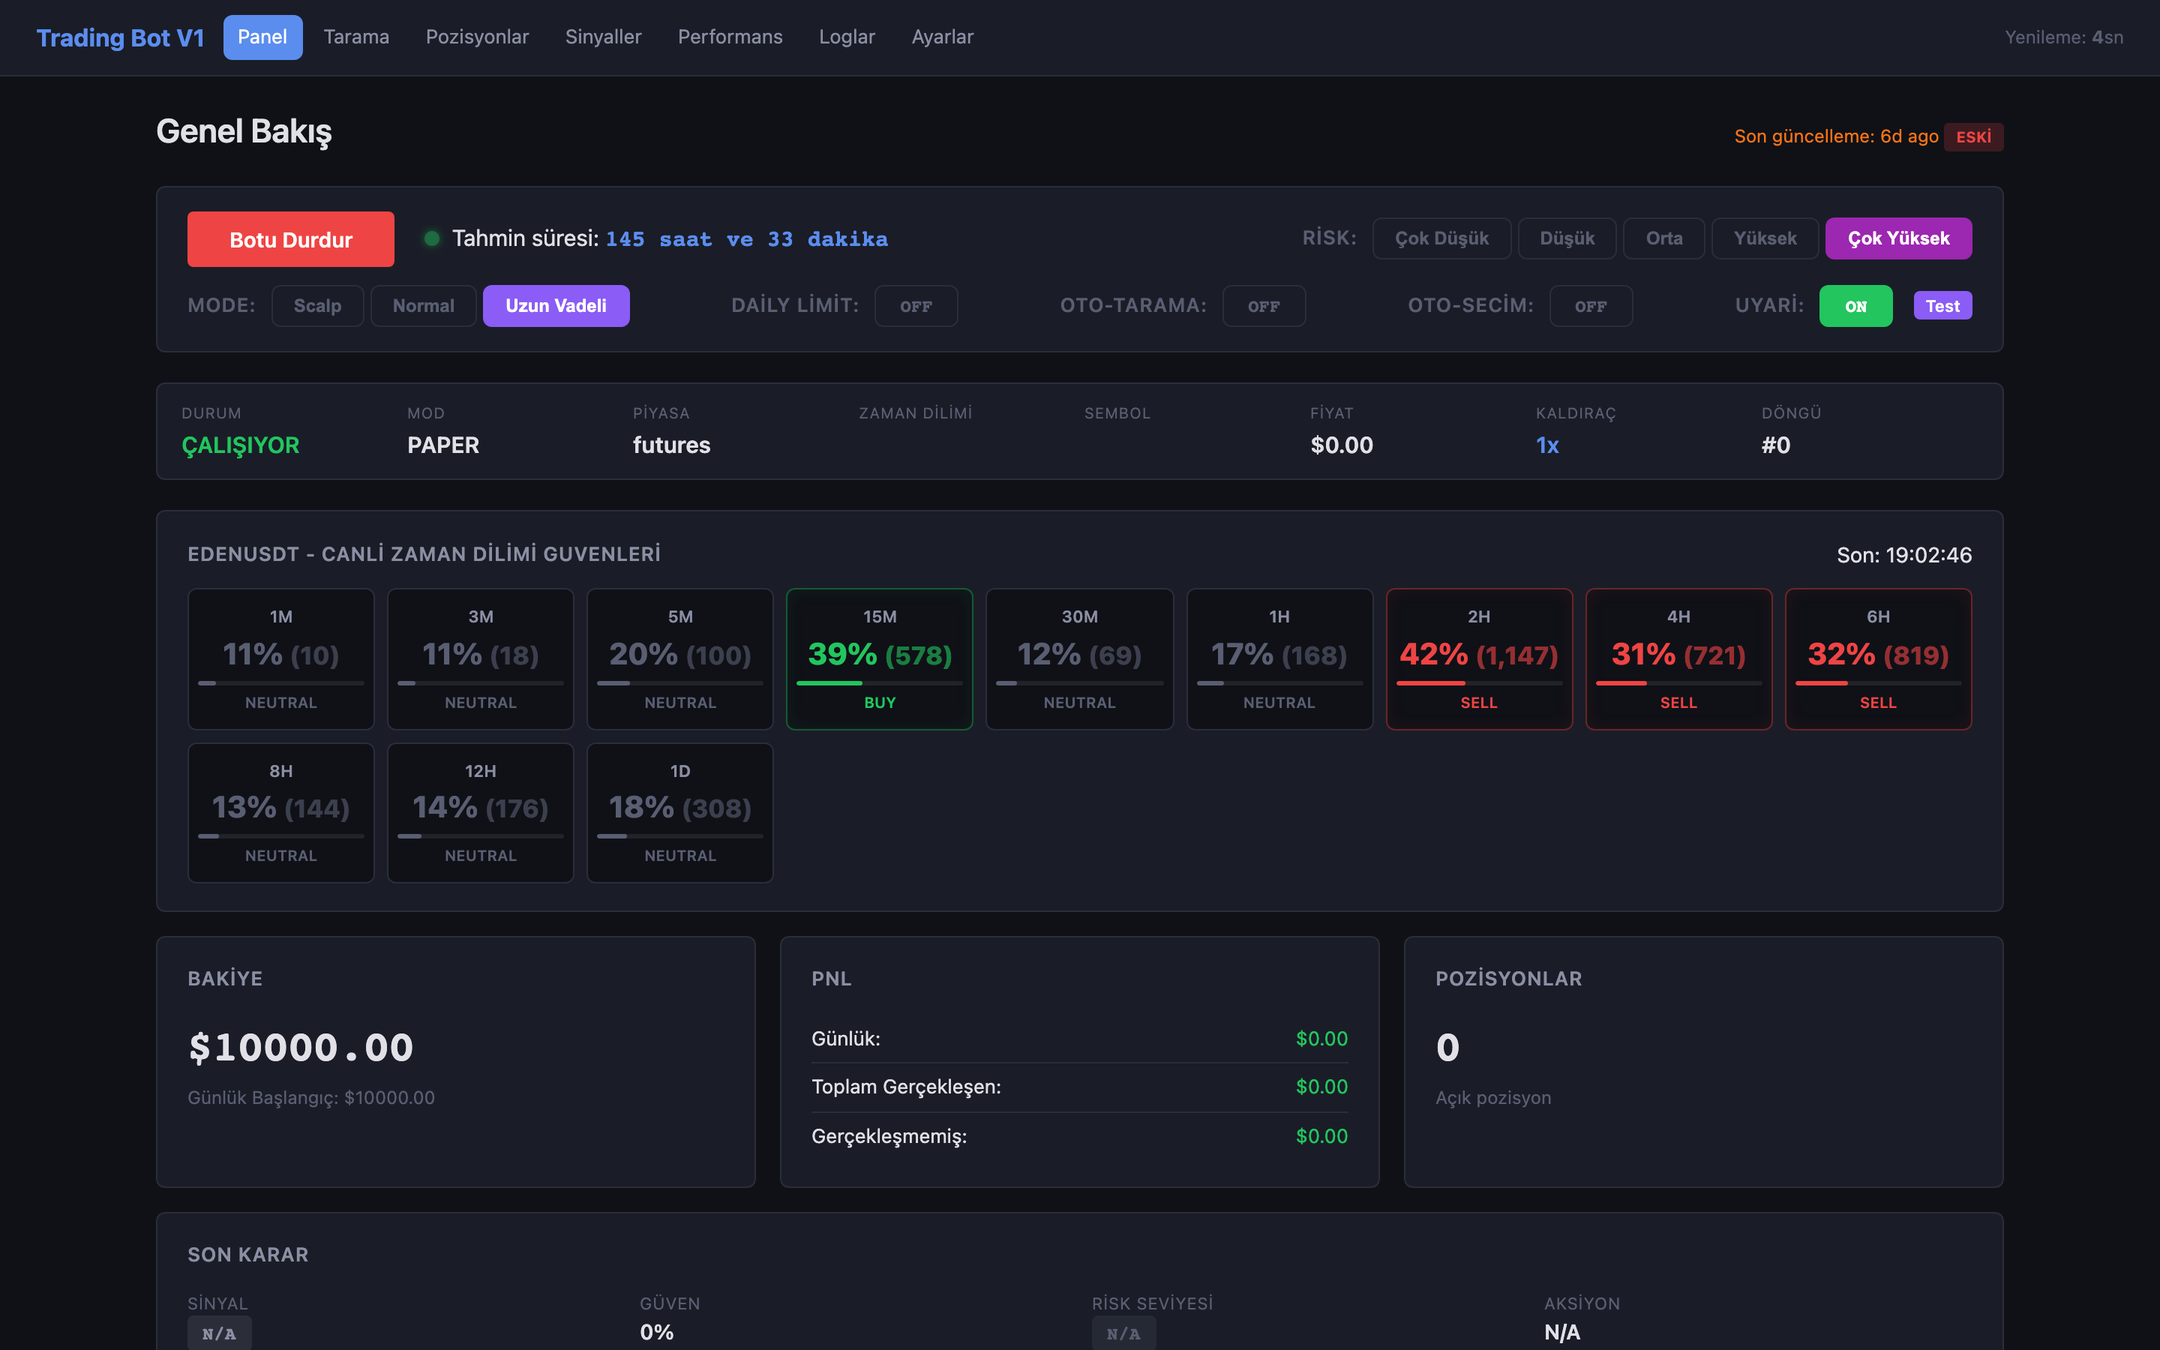
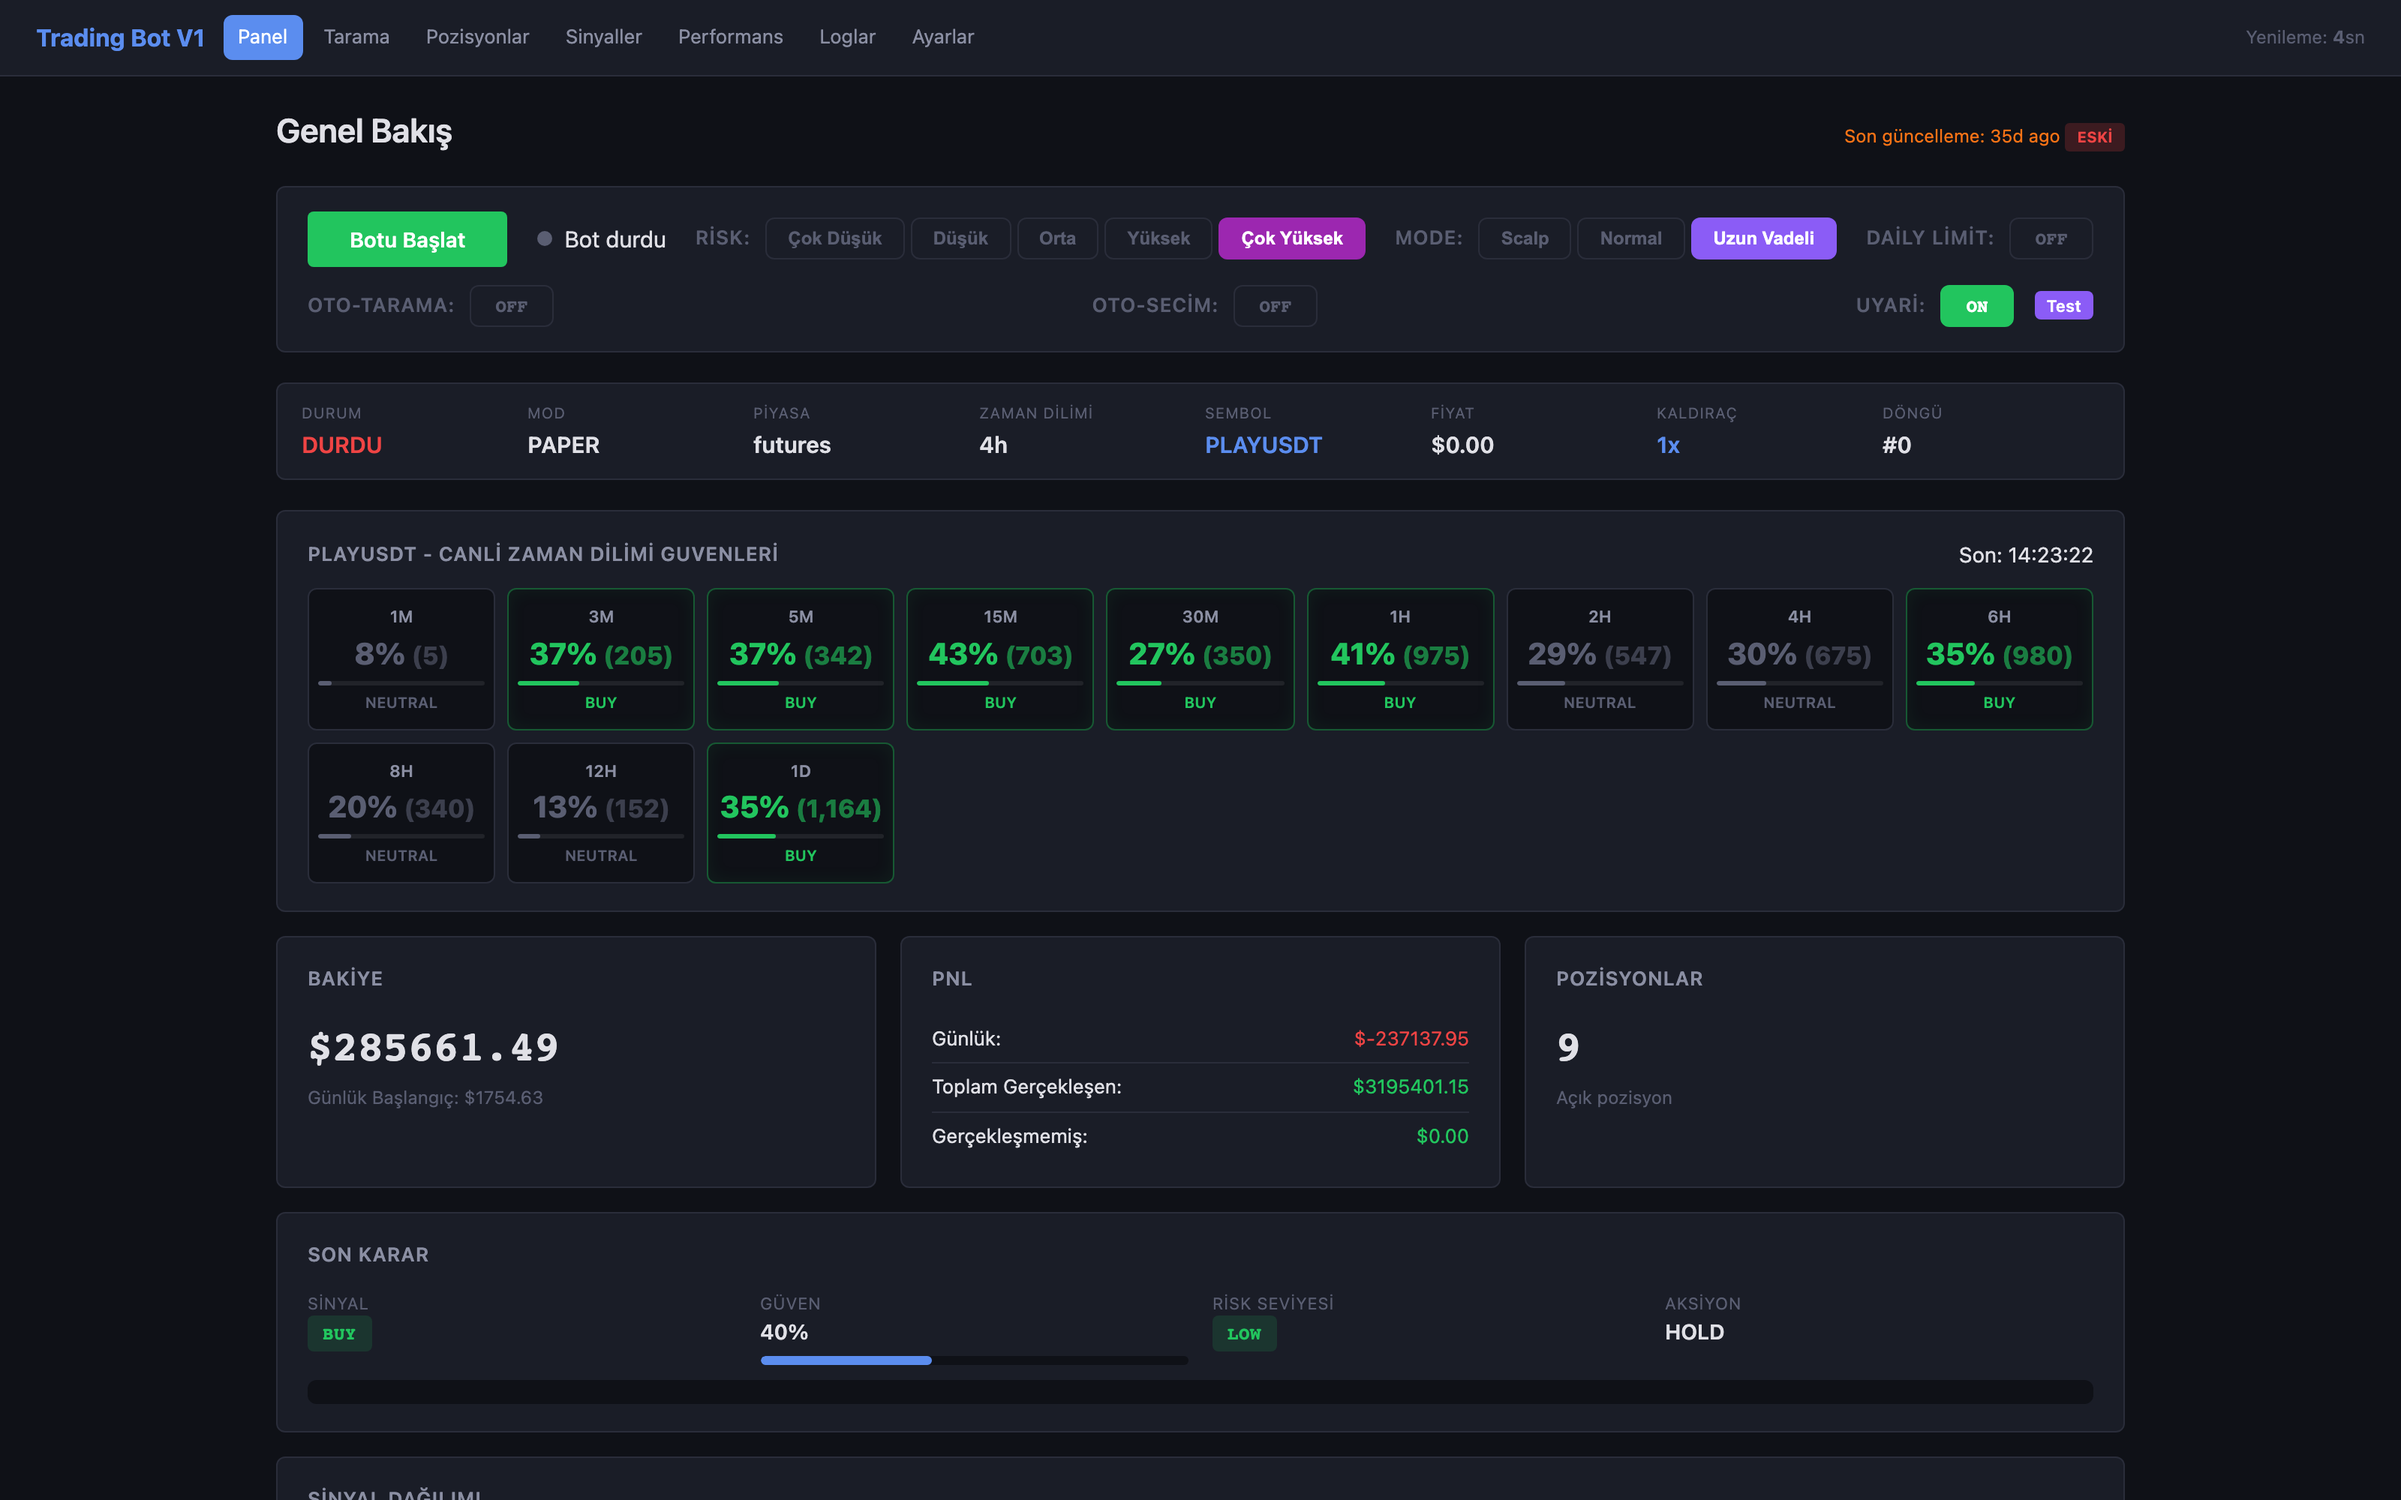
docs: hi-DPR dashboard screenshots + single-column README
- 7 retina-quality screenshots (3200x2000) for Panel/Tarama/Pozisyonlar/
  Sinyaller/Performans/Loglar/Ayarlar (was 4 thumbnail-table screenshots)
- README restructured from 2-column tables to single-column H3 layout so
  each preview renders at full reading width on GitHub
- Descriptive alt-text on each image for screen readers

diff --git a/README.md b/README.md
@@ -18,13 +18,26 @@
 
 ## Preview
 
-| Genel Bakış (Overview) | Tarama (Multi-symbol scan) |
-| --- | --- |
-| ![Dashboard with 12-timeframe confidence grid for an example symbol, balance $10000, PNL, and paper-mode futures status banner](docs/screenshots/01-panel.png) | ![Manual scan: 581 coins ranked, top-15 BUY/SELL signals across 12 timeframes, with cross-TF consistency ranking](docs/screenshots/02-tarama.png) |
+#### Panel (Overview)
+![Dashboard panel: bot running indicator, 12-timeframe confidence grid for the active symbol with per-TF BUY / SELL / HOLD votes, balance and PNL counters, paper-mode futures status banner, recent positions and signal history strips](docs/screenshots/01-panel.png)
 
-| Sinyaller (Signal history) | Ayarlar (Settings) |
-| --- | --- |
-| ![Signal history feed showing recent BUY/SELL decisions with timestamps and confidence levels](docs/screenshots/03-sinyaller.png) | ![Settings page with risk profile, mode, daily limit, auto-scan, indicator weights and credential management](docs/screenshots/04-ayarlar.png) |
+#### Tarama (Multi-symbol scan)
+![Tarama tab: 581-coin scan results ranked by cross-timeframe consistency, top BUY and top SELL columns with per-symbol confidence chips, 12-TF colored heat strip per row, manual rescan controls](docs/screenshots/02-tarama.png)
+
+#### Pozisyonlar (Open positions)
+![Pozisyonlar tab: open positions cards with LONG / SHORT badges, leverage chip, Kapat button, PnL bar, entry / current / amount / liquidation price grid, SL + TP + Trailing strip, paper-mode footer and trade history table](docs/screenshots/03-pozisyonlar.png)
+
+#### Sinyaller (Signal history)
+![Sinyaller tab: signal feed with timestamped BUY / SELL decisions, per-decision confidence percentage, contributing indicators list, time-since strip, infinite scroll](docs/screenshots/04-sinyaller.png)
+
+#### Performans (Performance)
+![Performans tab: lifetime PnL summary, win rate, average win and loss, best and worst trades, equity curve sparkline, trade volume and turnover counters](docs/screenshots/05-performans.png)
+
+#### Loglar (Bot logs)
+![Loglar tab: live bot log tail with severity colour-coding, decision-cycle markers, per-symbol entry and exit lines, scroll-to-follow toggle](docs/screenshots/06-loglar.png)
+
+#### Ayarlar (Settings)
+![Ayarlar tab: risk profile picker, mode toggle (PAPER / LIVE), daily limit and per-trade size, auto-scan cadence, indicator weights matrix, credential management with reveal toggle](docs/screenshots/07-ayarlar.png)
 
 The dashboard is a FastAPI app served at `127.0.0.1:8081`. Both macOS and
 Windows builds wrap the same Python code; the dashboard markup is identical.
